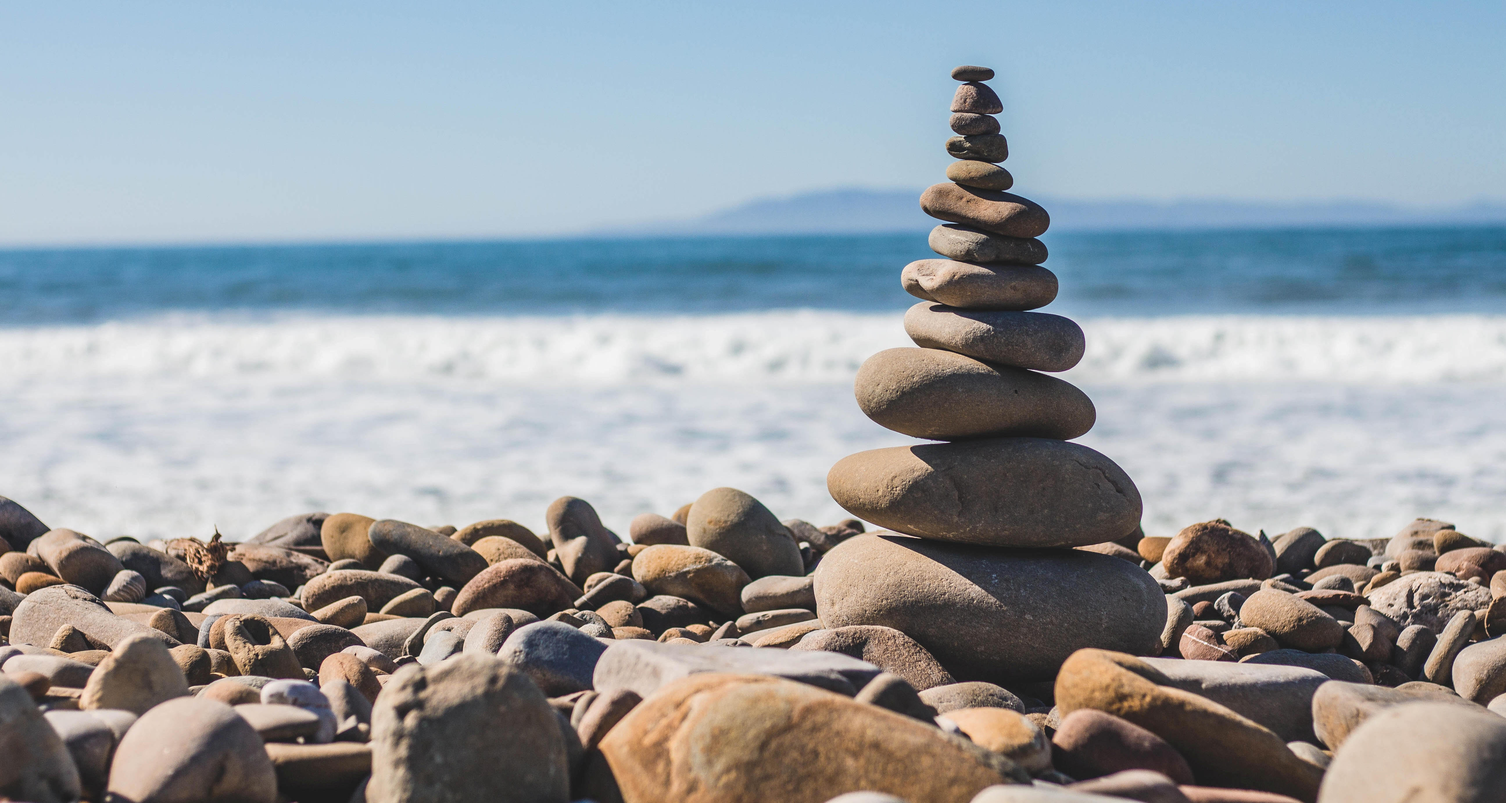
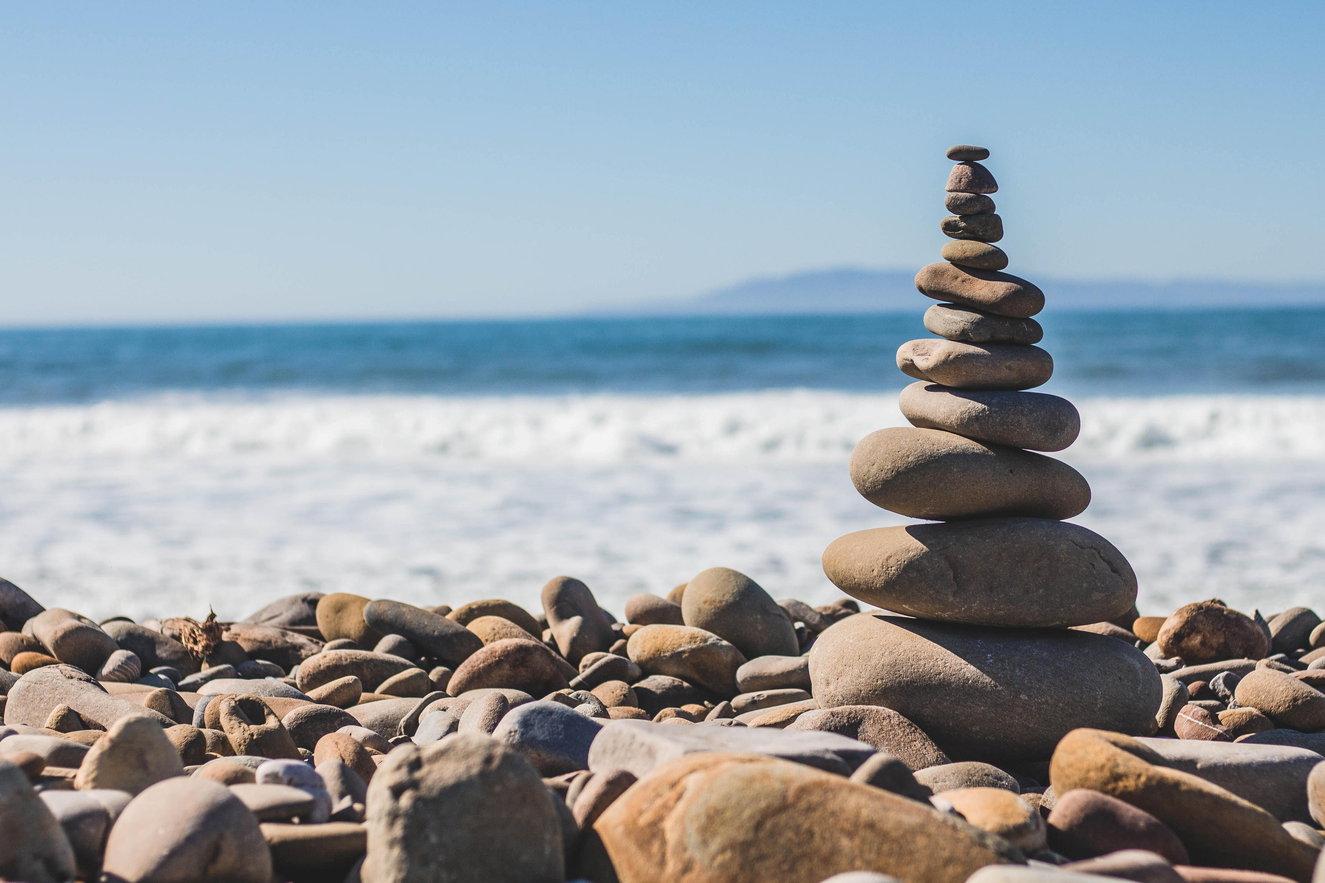
Add files via upload
Carousel works on mobile but too tall on pc. JS is commented out

diff --git a/index.js b/index.js
@@ -1,21 +1,21 @@
 
 
-const carouselInner = document.querySelector('.carousel-inner');
-const carouselImg = document.querySelector('.carousel-img');
-const topSection = document.querySelector('.top-section');
-const marble = document.querySelector('.marble-container');
-const marbleHeight = marble.offsetHeight;
+// const carouselInner = document.querySelector('.carousel-inner');
+// const carouselImg = document.querySelector('.carousel-img');
+// const topSection = document.querySelector('.top-section');
+// const marble = document.querySelector('.marble-container');
+// const marbleHeight = marble.offsetHeight;
 
 
-function setTest(){
+// function setTest(){
    
 
-    carouselImg.style.height= window.innerHeight-marbleHeight +"px";
-    // image.style.height = test.offsetHeight - alignHeight + "px";
-    // console.log(test.offsetHeight);
-    // console.log(alignHeight);
-    // console.log(test.offsetHeight - alignHeight + "px");
-    // console.log(image.style.height);
-}
-setTest();
+//     carouselImg.style.height= window.innerHeight-marbleHeight +"px";
+//     // image.style.height = test.offsetHeight - alignHeight + "px";
+//     // console.log(test.offsetHeight);
+//     // console.log(alignHeight);
+//     // console.log(test.offsetHeight - alignHeight + "px");
+//     // console.log(image.style.height);
+// }
+// setTest();
  
